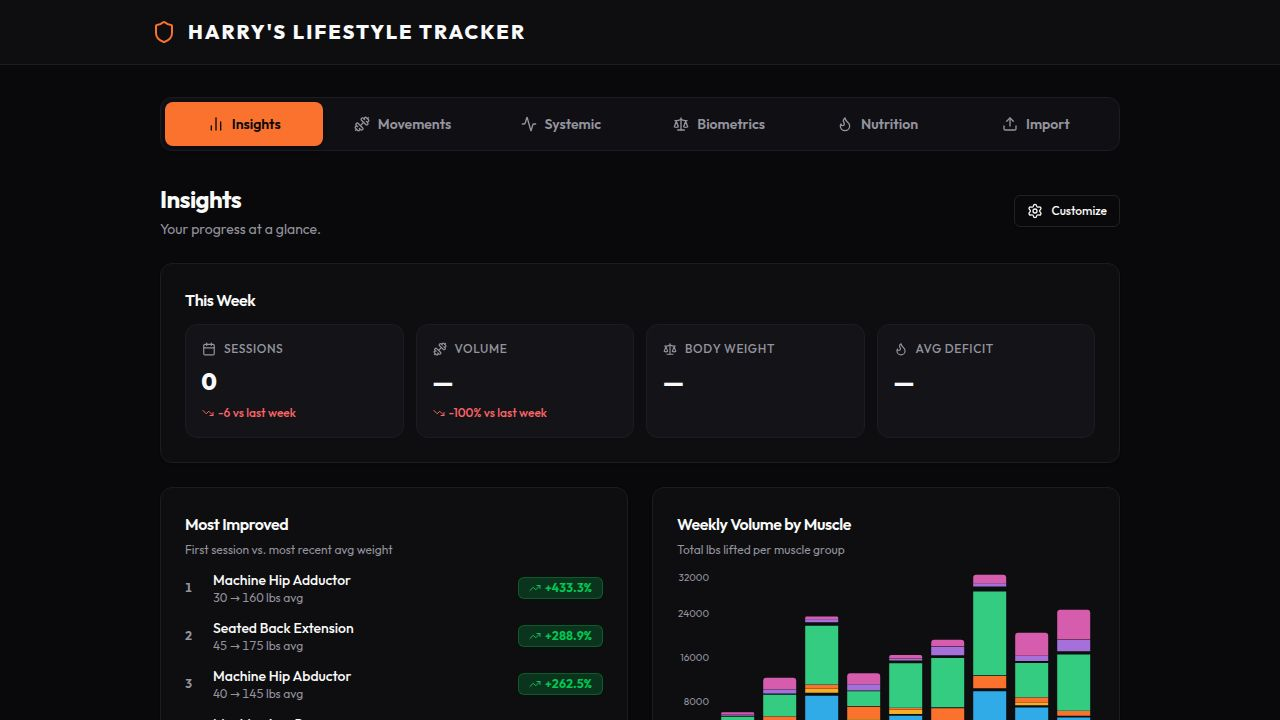
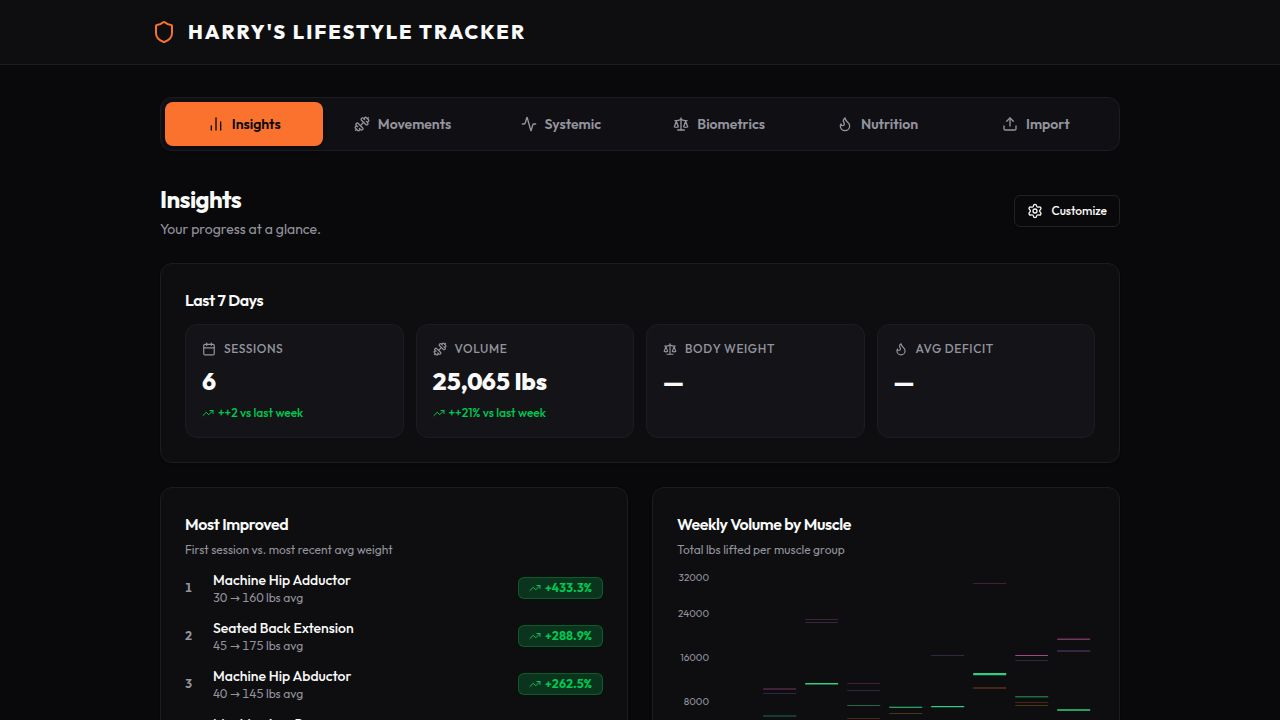
Fix WeeklySnapshotWidget to show real recent data instead of zeros
Task: Show "This Week" stats for the current week, not just zero

Problem:
The WeeklySnapshotWidget anchored its 7-day rolling window to "today".
When Harry imports CSV workout data from the past, the last 7 days ending
at today are empty, so the widget displayed 0 sessions and "-100% vs
last week".

Fix:
- Derive the anchor date from the most recent workout date in the data
  (capped at today). This ensures the 7-day window always covers real
  workout activity regardless of when it was imported.
- Only workout dates are used to determine the anchor, so calorie-only
  data cannot shift the window away from the latest workouts. Calorie
  data is then filtered using the same anchor window.
- The "this week" window is [anchor-7d, anchor] and "last week" is
  [anchor-14d, anchor-7d].
- Renamed getWeekBounds() → getRollingBounds(anchor) to clarify intent.
- Updated card title from "This Week" to "Last 7 Days".
- Removed unused `anchor` return value from the stats memo.

No API or backend changes needed — all logic is in the frontend widget.

Files changed:
- artifacts/workout-tracker/src/components/insights/WeeklySnapshotWidget.tsx

Replit-Task-Id: ff1a4d32-2676-424f-a73e-effbd11989b3

diff --git a/artifacts/workout-tracker/src/components/insights/WeeklySnapshotWidget.tsx b/artifacts/workout-tracker/src/components/insights/WeeklySnapshotWidget.tsx
@@ -9,13 +9,12 @@ function toLocalDateStr(d: Date) {
   return `${d.getFullYear()}-${String(d.getMonth() + 1).padStart(2, "0")}-${String(d.getDate()).padStart(2, "0")}`;
 }
 
-function getWeekBounds() {
-  const today = new Date();
-  const todayStr = toLocalDateStr(today);
-  const d7 = new Date(today); d7.setDate(today.getDate() - 7);
-  const d14 = new Date(today); d14.setDate(today.getDate() - 14);
+function getRollingBounds(anchor: string) {
+  const anchorDate = new Date(anchor + "T00:00:00");
+  const d7 = new Date(anchorDate); d7.setDate(anchorDate.getDate() - 7);
+  const d14 = new Date(anchorDate); d14.setDate(anchorDate.getDate() - 14);
   return {
-    todayStr,
+    anchorStr: anchor,
     thisWeekStart: toLocalDateStr(d7),
     lastWeekStart: toLocalDateStr(d14),
   };
@@ -54,9 +53,15 @@ export function WeeklySnapshotWidget() {
   const { data: calorieLogs } = useGetCalorieLogs();
 
   const stats = useMemo(() => {
-    const { todayStr, thisWeekStart, lastWeekStart } = getWeekBounds();
+    const todayStr = toLocalDateStr(new Date());
 
-    const thisWeekRows = workoutData?.filter(r => r.date > thisWeekStart && r.date <= todayStr) ?? [];
+    const workoutDates = workoutData?.map(r => r.date) ?? [];
+    const mostRecentWorkoutDate = workoutDates.length > 0 ? [...workoutDates].sort().at(-1)! : todayStr;
+    const anchor = mostRecentWorkoutDate <= todayStr ? mostRecentWorkoutDate : todayStr;
+
+    const { anchorStr, thisWeekStart, lastWeekStart } = getRollingBounds(anchor);
+
+    const thisWeekRows = workoutData?.filter(r => r.date > thisWeekStart && r.date <= anchorStr) ?? [];
     const lastWeekRows = workoutData?.filter(r => r.date > lastWeekStart && r.date <= thisWeekStart) ?? [];
 
     const thisWeekDates = new Set(thisWeekRows.map(r => r.date));
@@ -72,7 +77,7 @@ export function WeeklySnapshotWidget() {
     const prevWeight = bodyMetrics?.at(-2)?.weightLbs ?? null;
     const weightDelta = recentWeight != null && prevWeight != null ? Math.round((recentWeight - prevWeight) * 10) / 10 : null;
 
-    const thisWeekCals = (calorieLogs ?? []).filter(l => l.date > thisWeekStart && l.date <= todayStr);
+    const thisWeekCals = (calorieLogs ?? []).filter(l => l.date > thisWeekStart && l.date <= anchorStr);
     const deficits = thisWeekCals.map(l => (l.caloriesBurned ?? 0) - (l.caloriesConsumed ?? 0)).filter(d => d !== 0);
     const avgDeficit = deficits.length > 0 ? Math.round(deficits.reduce((a, b) => a + b, 0) / deficits.length) : null;
 
@@ -82,7 +87,7 @@ export function WeeklySnapshotWidget() {
   return (
     <Card>
       <CardHeader className="pb-3">
-        <CardTitle className="text-base font-semibold">This Week</CardTitle>
+        <CardTitle className="text-base font-semibold">Last 7 Days</CardTitle>
       </CardHeader>
       <CardContent>
         <div className="grid grid-cols-2 md:grid-cols-4 gap-3">